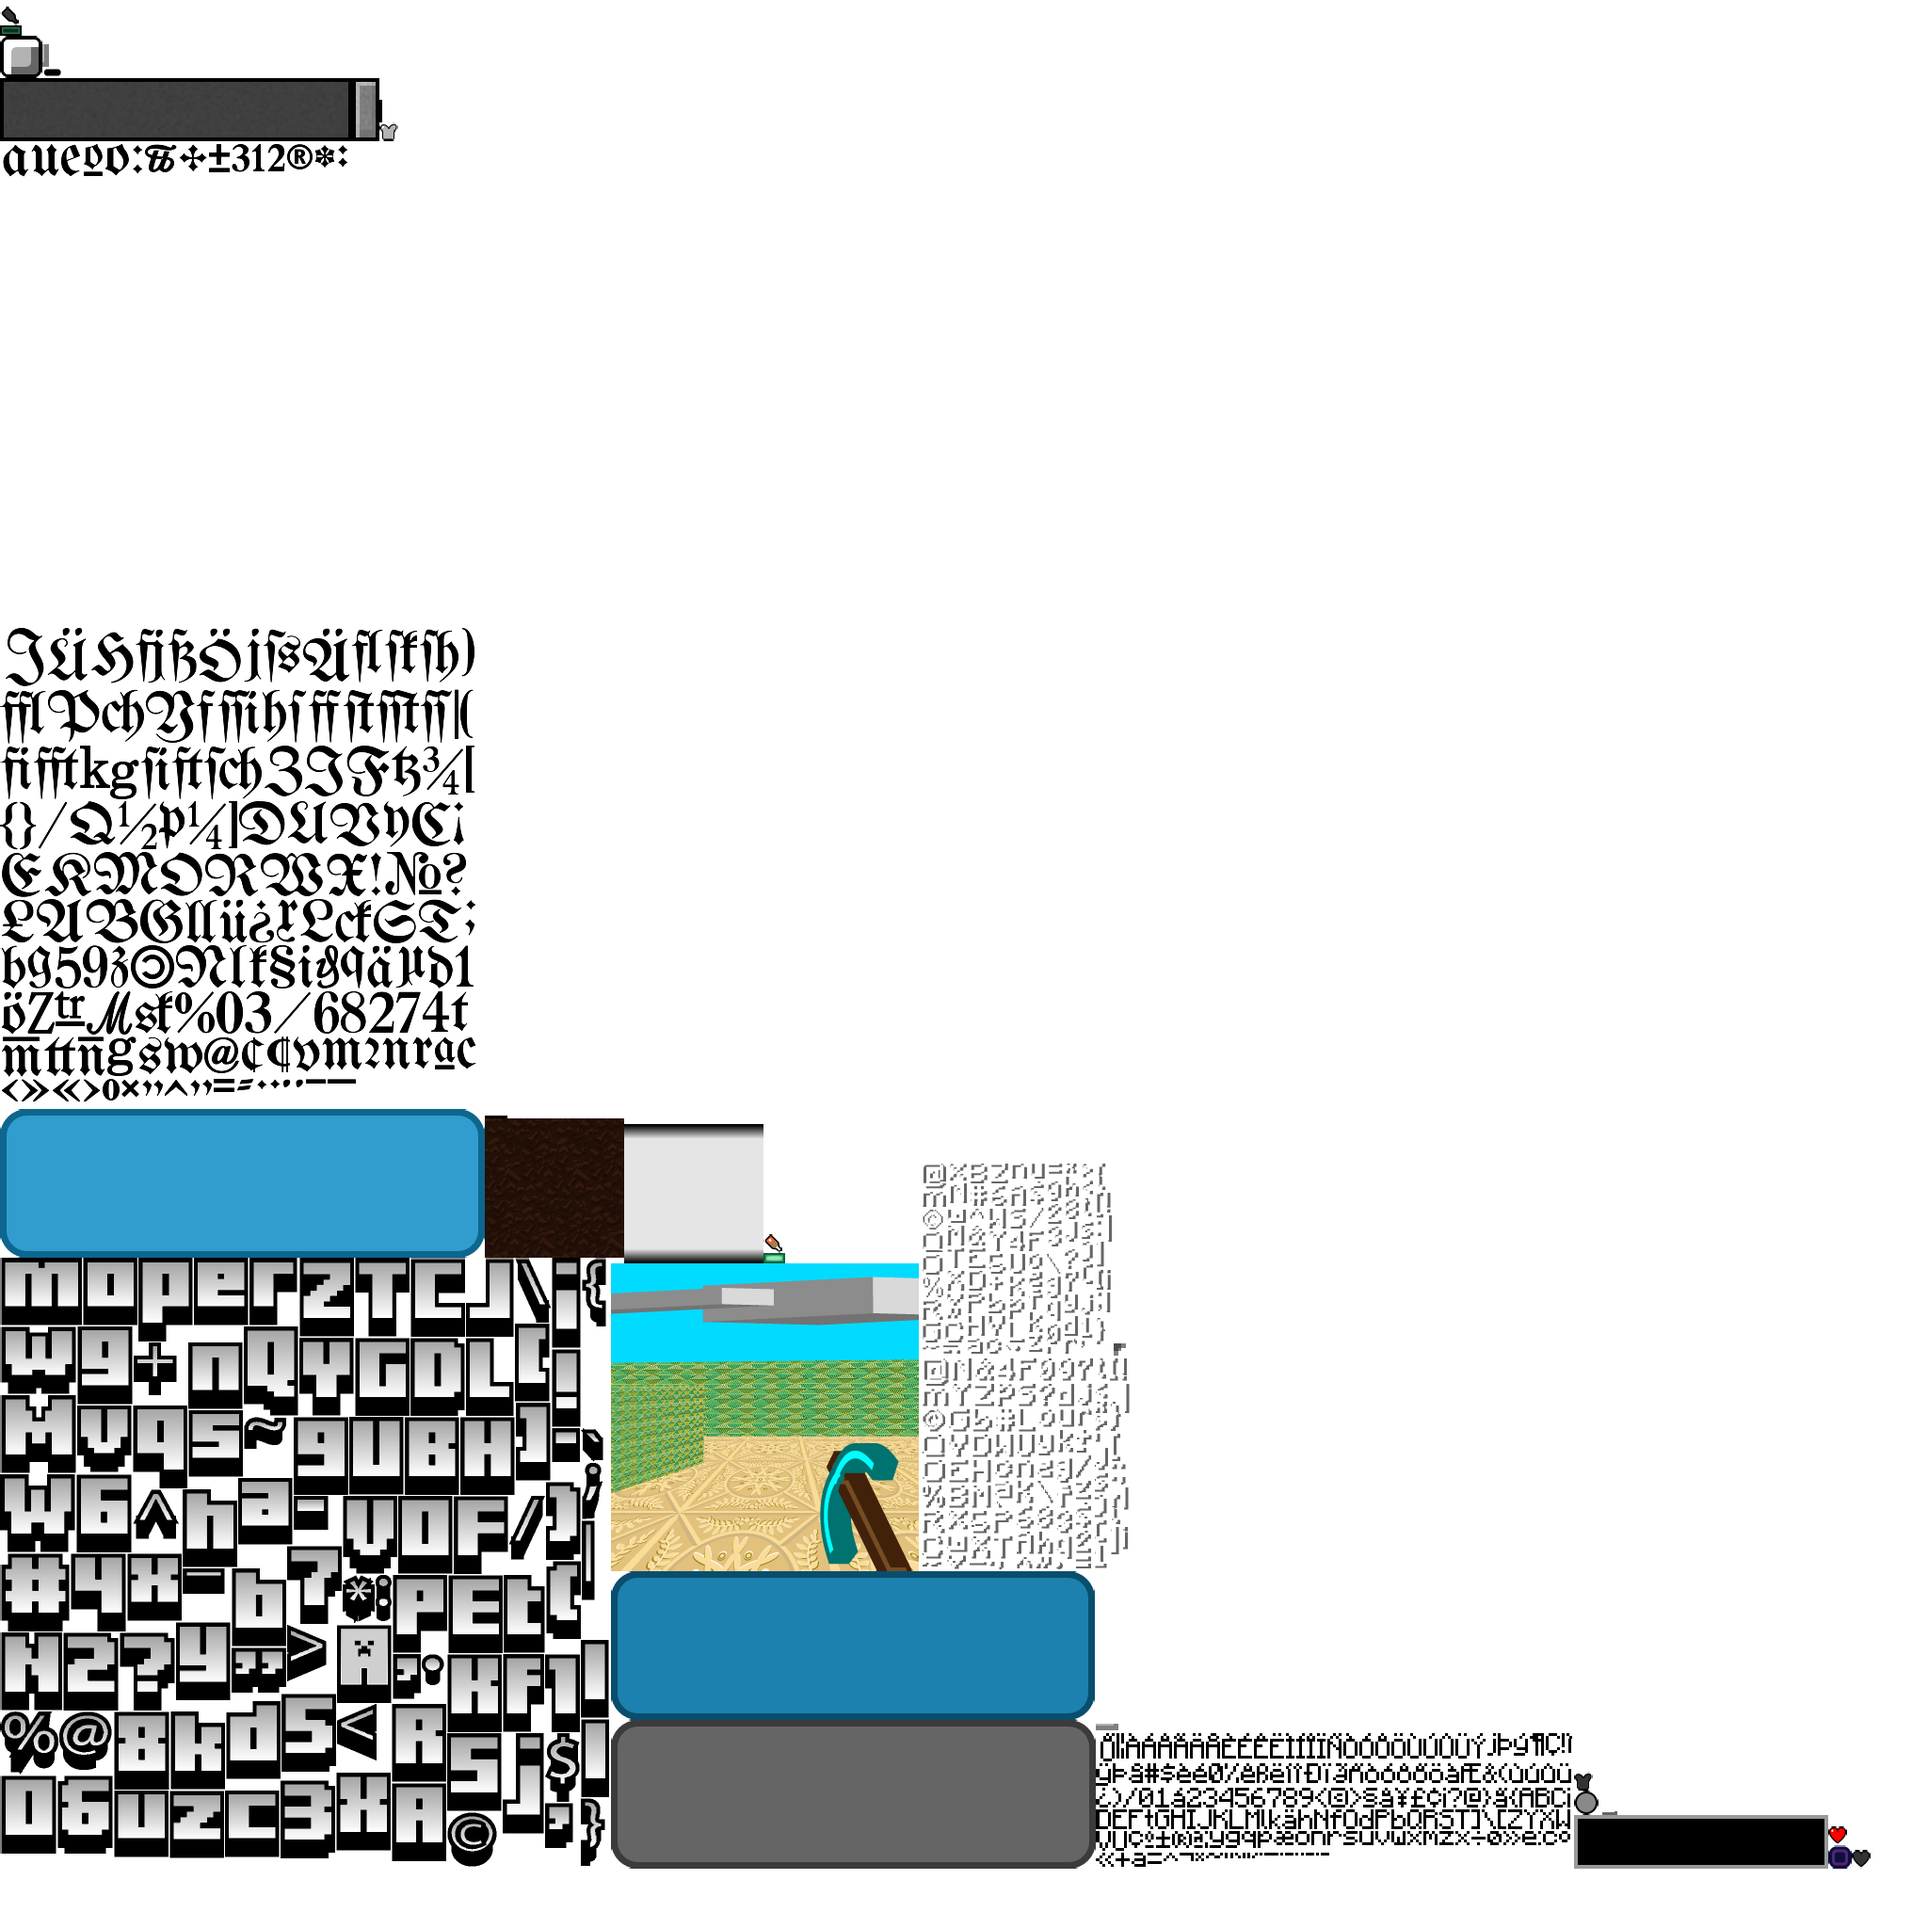
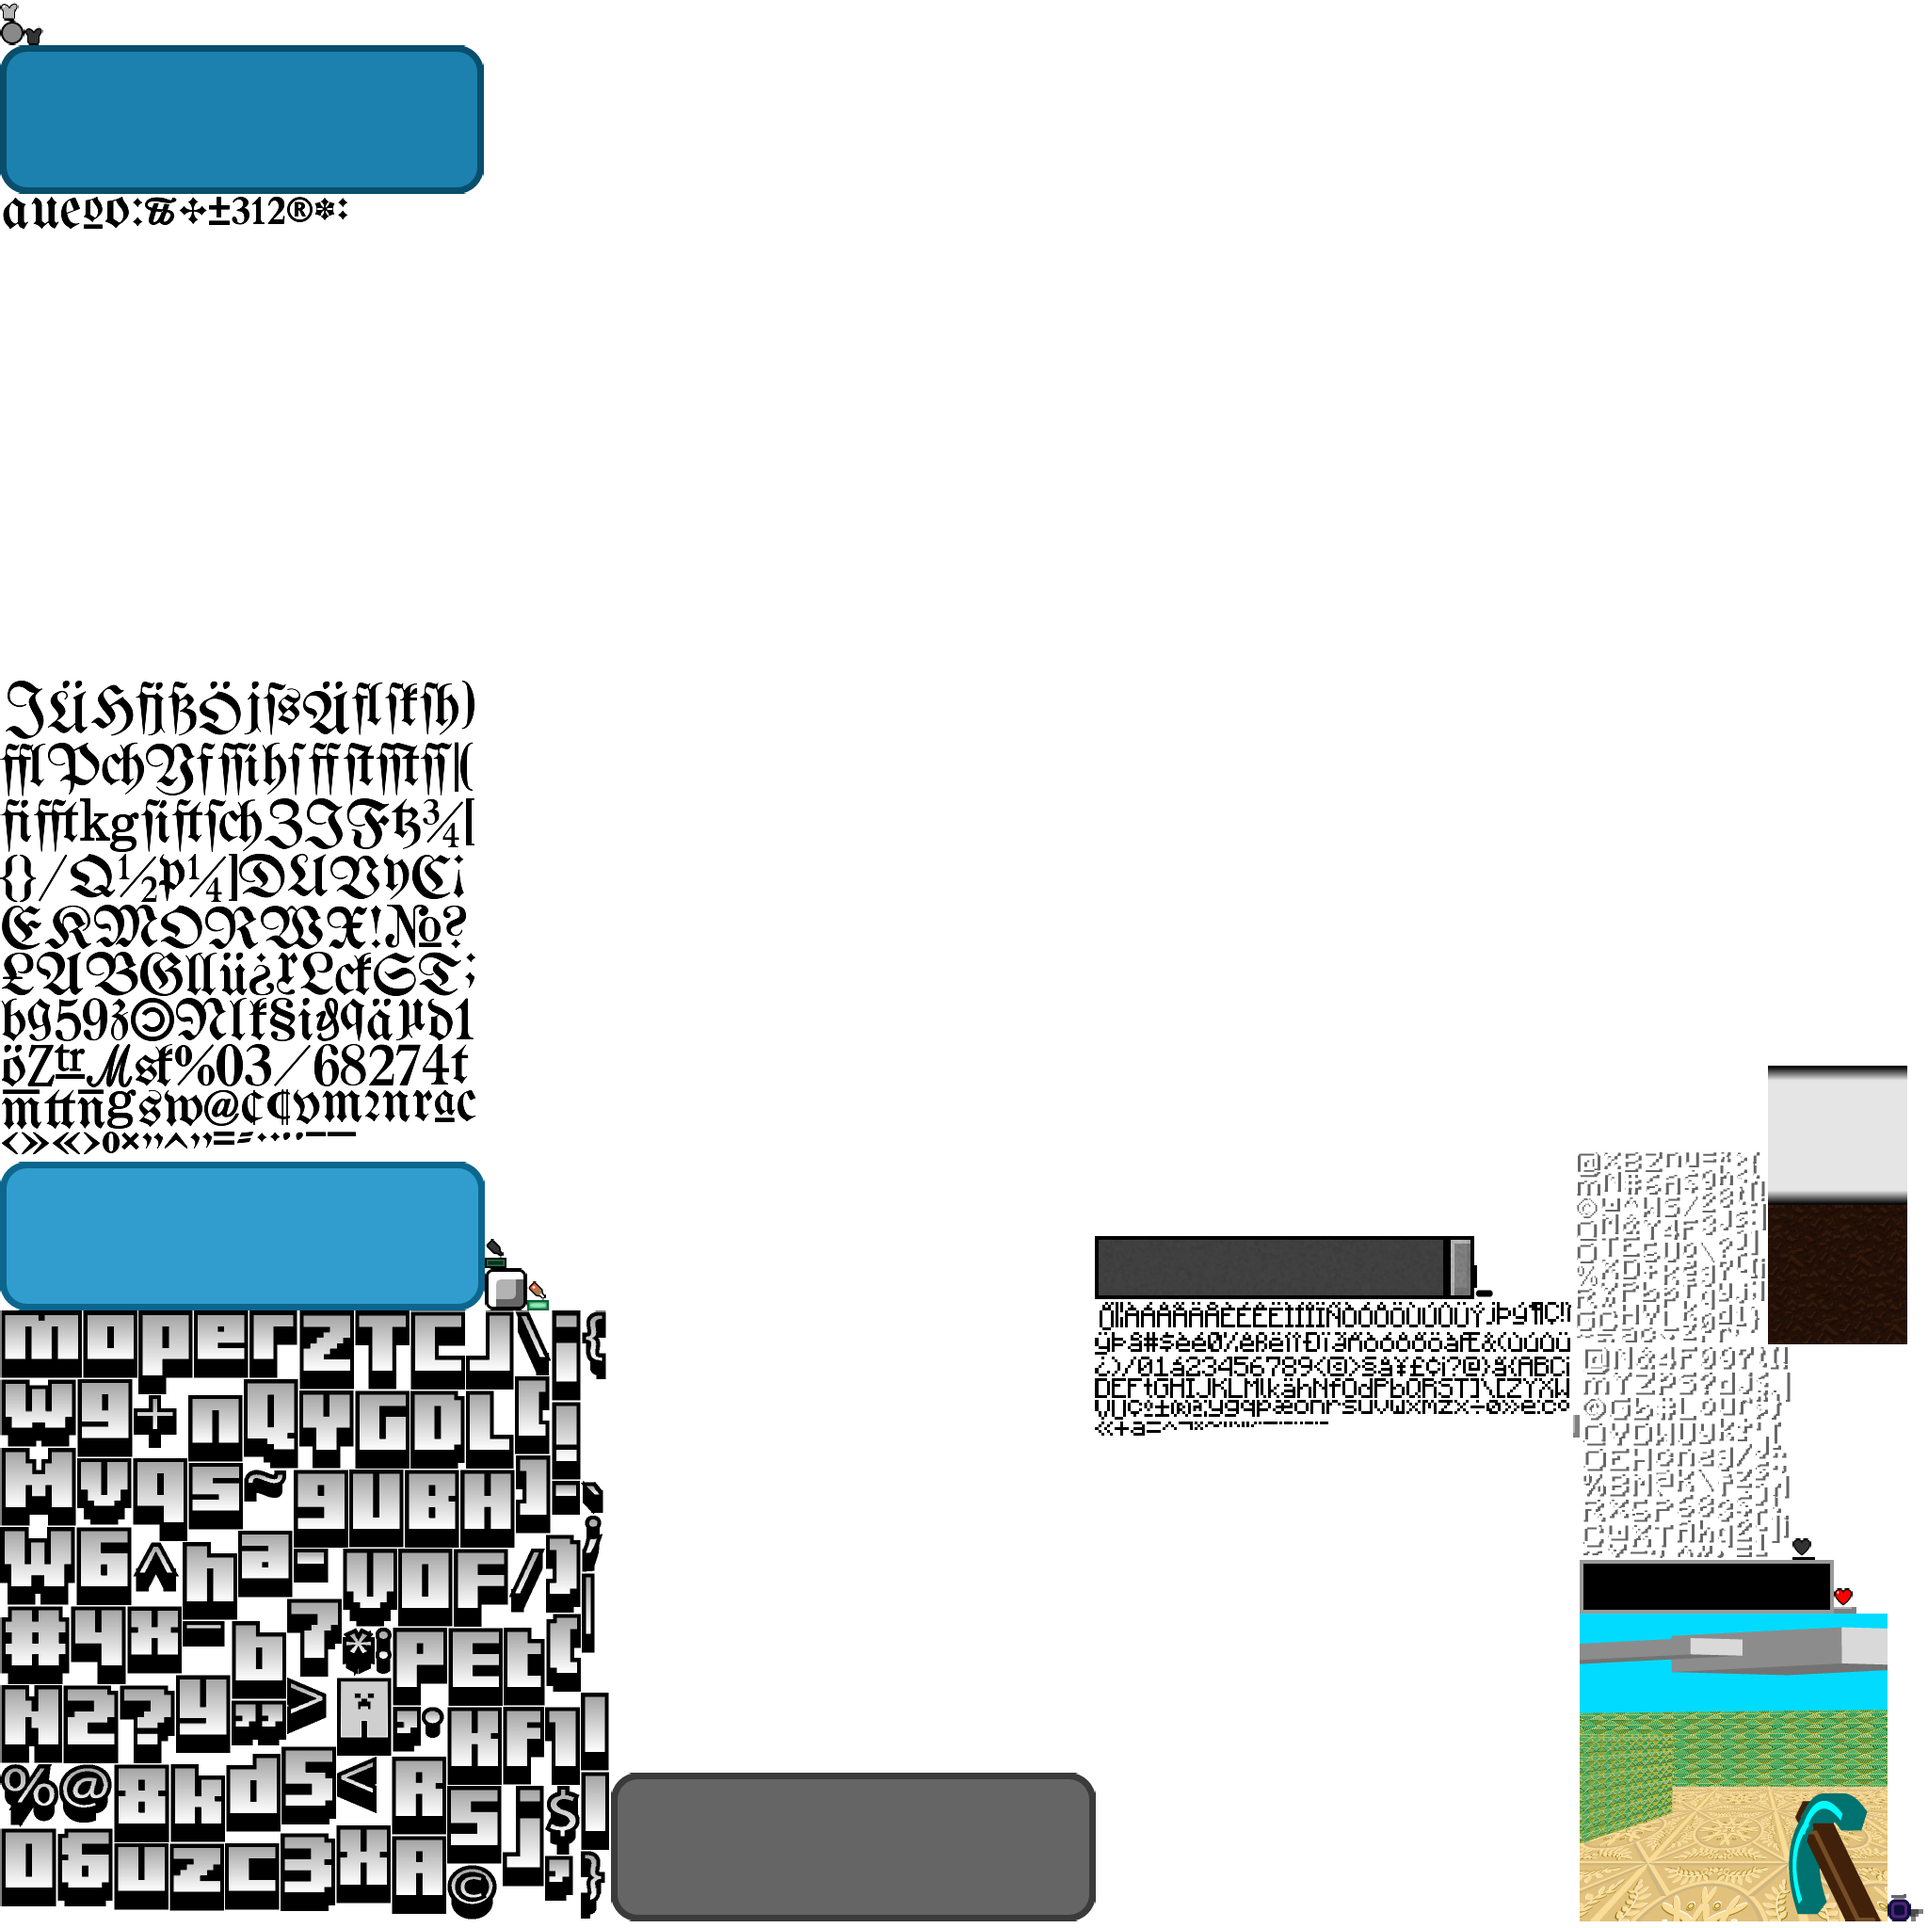
add white Fraktur font

Changed region(s): [[0.0, 0.3125, 1.0, 1.0], [0.0, 0.0, 0.25, 0.125]]

diff --git a/core/src/de/tum/cit/fop/maze/screens/GameOverScreen.java b/core/src/de/tum/cit/fop/maze/screens/GameOverScreen.java
@@ -55,7 +55,7 @@ public class GameOverScreen implements Screen {
         stage.addActor(table); // Add the table to the stage
 
         // Add a label as a title
-        Label title = new Label("Game Over", game.getSkin(), "fraktur");
+        Label title = new Label("Game Over", game.getSkin(), "fraktur-white");
         title.getStyle().font.getData().setScale(1);
         table.add(title).padBottom(80).row();
 
